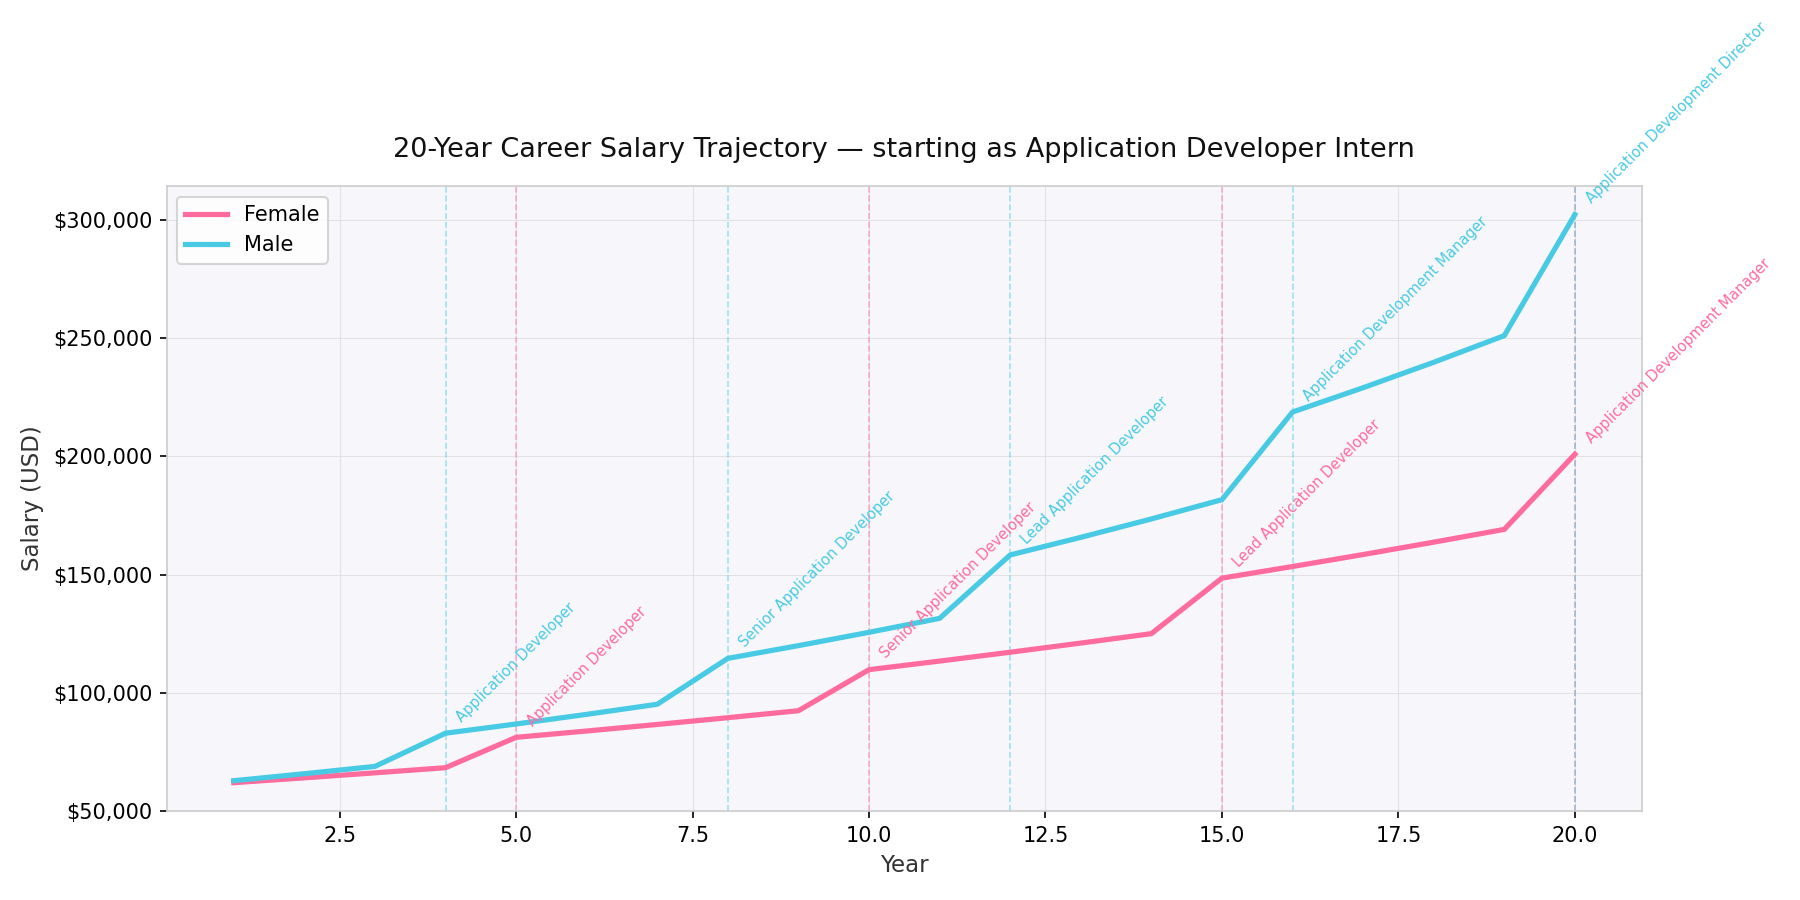
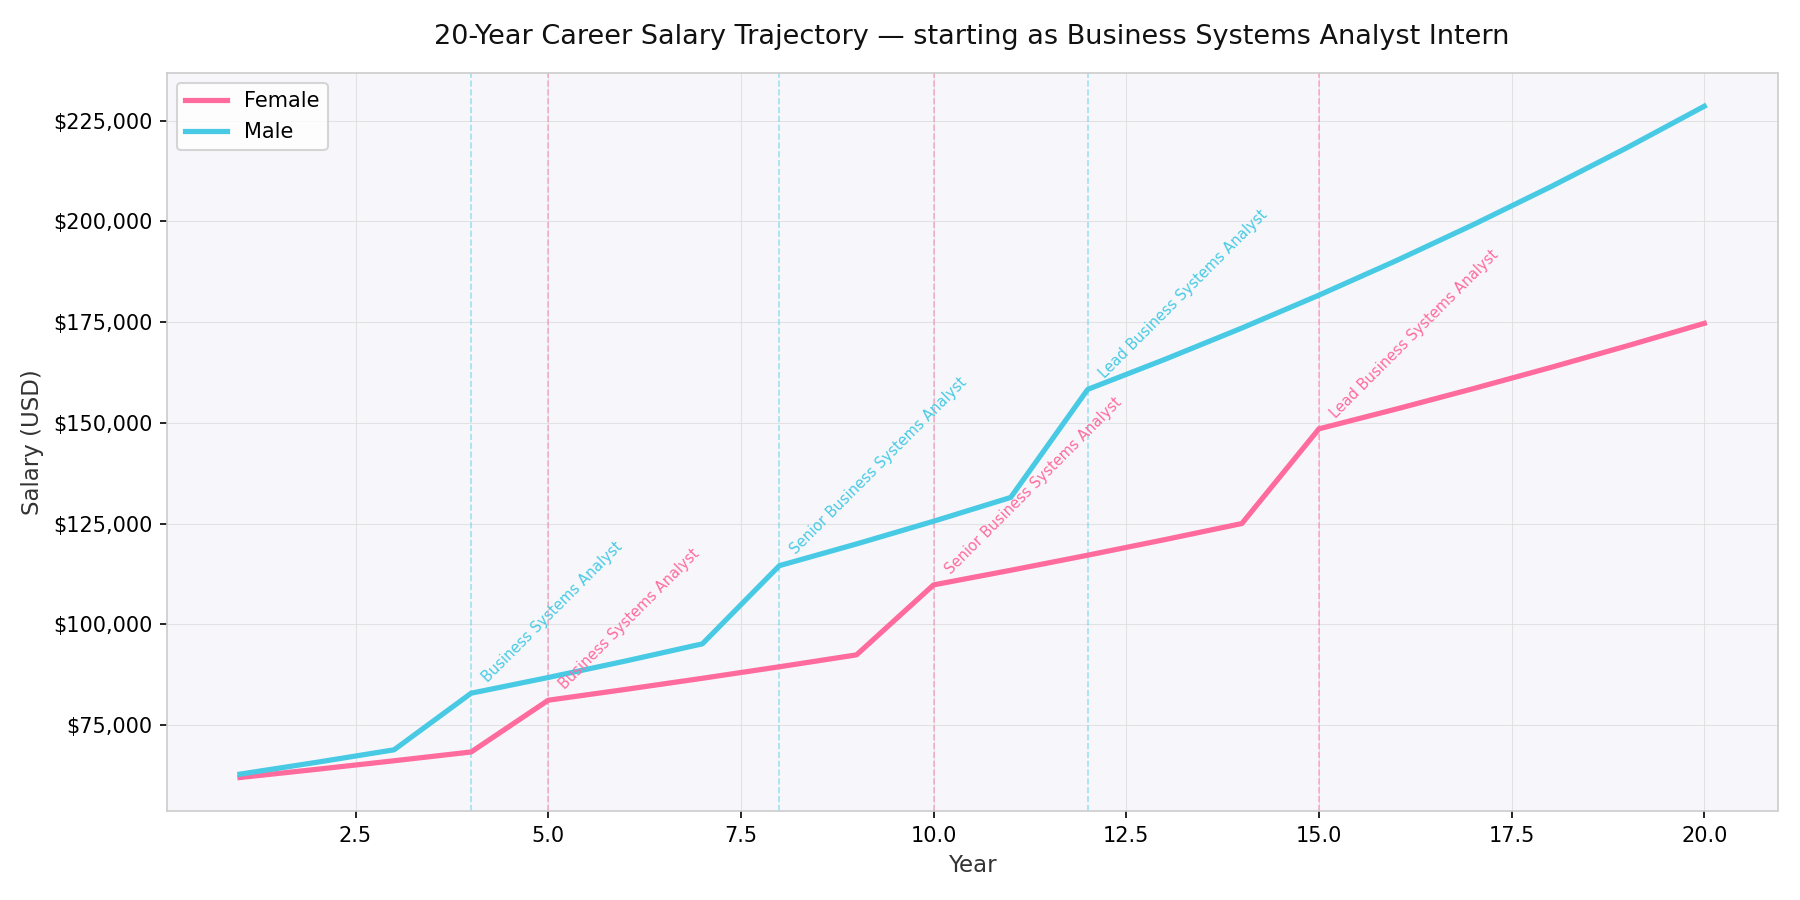
working ver of match alg

diff --git a/src/App.jsx b/src/App.jsx
@@ -60,7 +60,7 @@ const HARDCODED_JOBS = [
     companyType: "Startup",
     location: "San Francisco, CA",
     workType: "Remote",
-    distance: "2.8 mi away",
+    distance: null,
     match: 88,
     // badge: "Salary transparent",
     badgeColor: "#d4b8e0",
@@ -77,7 +77,7 @@ const HARDCODED_JOBS = [
     companyType: "Non-profit",
     location: "San Francisco, CA",
     workType: "Hybrid",
-    distance: "3.5 mi away",
+    distance: null,
     match: 82,
     // badge: "✓ Pay certified",
     badgeColor: "#fce4ea",
@@ -94,7 +94,7 @@ const HARDCODED_JOBS = [
     companyType: "Tech",
     location: "New York, NY",
     workType: "Hybrid",
-    distance: "1.2 mi away",
+    distance: null,
     match: 79,
     // badge: "Salary transparent",
     badgeColor: "#d4b8e0",
@@ -128,7 +128,7 @@ const HARDCODED_JOBS = [
     companyType: "Consumer",
     location: "New York, NY",
     workType: "On-site",
-    distance: "4.1 mi away",
+    distance: null,
     match: 74,
     badge: "Women-led",
     badgeColor: "#d4f0e8",
@@ -162,7 +162,7 @@ const HARDCODED_JOBS = [
     companyType: "Finance",
     location: "New York, NY",
     workType: "On-site",
-    distance: "0.8 mi away",
+    distance: null,
     match: 68,
     badge: "Pay gap audit",
     badgeColor: "#fce4ea",
@@ -179,7 +179,7 @@ const HARDCODED_JOBS = [
     companyType: "Fintech",
     location: "San Francisco, CA",
     workType: "Hybrid",
-    distance: "2.0 mi away",
+    distance: null,
     match: 65,
     // badge: "✓ Pay certified",
     badgeColor: "#fce4ea",

diff --git a/ml/score_job.py b/ml/score_job.py
@@ -10,6 +10,10 @@ Weights:
   distance     0.23  — closer zip code scores higher (neutral 0.5 when zip missing)
   recency      0.05  — more recently posted scores higher (neutral 0.5 when missing)
 
+Cross-domain penalty: if the user's field and the job's field are different domains
+(e.g. engineer vs. marketing director), the raw score is multiplied by 0.12 so
+wrong-field jobs are buried at the bottom of results.
+
 Usage:
     from score_job import score_job
 
@@ -30,11 +34,71 @@ _W_EQUITY   = 0.34
 _W_DISTANCE = 0.23
 _W_RECENCY  = 0.05
 
+# Cross-domain multiplier applied when user field != job field.
+_CROSS_DOMAIN_PENALTY = 0.12
+
+# Ordered list of (domain_name, pattern). First match wins.
+_DOMAINS: list[tuple[str, re.Pattern]] = [
+    ("tech",       re.compile(
+        r'\b(engineer|engineering|developer|software|data|machine learning|ml|ai|'
+        r'devops|sre|platform|backend|frontend|fullstack|full.?stack|infrastructure|'
+        r'security|cloud|architect|programmer|sde|swe|qa|tester|analytics|'
+        r'data scientist|research scientist|computer|cyber|network|systems)\b', re.I)),
+    ("product",    re.compile(
+        r'\b(product manager|product owner|program manager|project manager|'
+        r'scrum master|agile|technical program)\b', re.I)),
+    ("design",     re.compile(
+        r'\b(design|designer|ux|ui|user experience|user interface|visual|'
+        r'graphic|creative director|art director|motion)\b', re.I)),
+    ("marketing",  re.compile(
+        r'\b(marketing|brand|content|seo|sem|growth hacker|campaign|'
+        r'social media|communications|copywriter|media buyer|demand gen)\b', re.I)),
+    ("sales",      re.compile(
+        r'\b(sales|account executive|account manager|business development|'
+        r'revenue|customer success|solutions engineer|pre.?sales|inside sales)\b', re.I)),
+    ("finance",    re.compile(
+        r'\b(finance|financial|accounting|accountant|investment|banking|'
+        r'audit|treasury|controller|cfo|actuar|equity|portfolio|trader|quant)\b', re.I)),
+    ("hr",         re.compile(
+        r'\b(human resources|hr |recruiter|recruiting|talent acquisition|'
+        r'people ops|diversity|dei|workforce|compensation|benefits)\b', re.I)),
+    ("legal",      re.compile(
+        r'\b(legal|lawyer|attorney|counsel|paralegal|compliance|regulatory|'
+        r'policy|contracts|litigation)\b', re.I)),
+    ("ops",        re.compile(
+        r'\b(operations|logistics|supply chain|procurement|facilities|'
+        r'office manager|coordinator|administrator|chief of staff)\b', re.I)),
+    ("healthcare", re.compile(
+        r'\b(nurse|physician|doctor|clinical|medical|healthcare|pharmacy|'
+        r'therapist|dentist|surgeon|radiolog|patholog)\b', re.I)),
+    ("education",  re.compile(
+        r'\b(teacher|professor|instructor|curriculum|academic|tutoring|'
+        r'e.?learning|training|educator|teaching)\b', re.I)),
+]
+
+
+def _get_domain(text: str) -> str | None:
+    for name, pat in _DOMAINS:
+        if pat.search(text):
+            return name
+    return None
+
+
+def _domain_multiplier(user_role: str, job_title: str) -> float:
+    """Return 1.0 if domains match or are unknown; _CROSS_DOMAIN_PENALTY otherwise."""
+    user_domain = _get_domain(user_role)
+    job_domain  = _get_domain(job_title)
+    if user_domain and job_domain and user_domain != job_domain:
+        return _CROSS_DOMAIN_PENALTY
+    return 1.0
+
 
 def _title_score(user_role: str, job_title: str) -> float:
-    """Jaccard similarity on lowercased word tokens."""
+    """Jaccard similarity on lowercased word tokens, excluding common stop words."""
+    _STOP = {"and", "or", "of", "the", "a", "an", "in", "at", "for", "to", "with"}
+
     def tokens(s: str) -> set:
-        return set(re.findall(r"\w+", s.lower()))
+        return set(re.findall(r"\w+", s.lower())) - _STOP
 
     a, b = tokens(user_role), tokens(job_title)
     if not a or not b:
@@ -108,9 +172,14 @@ def score_job(job_info: dict[str, Any], user_info: dict[str, Any]) -> float:
     job_info  — expects: title, womenAvg, menAvg, zipcode, posted
     user_info — expects: current_role, zipcode
     """
-    title    = _title_score(user_info.get("current_role", ""), job_info.get("title", ""))
+    user_role = user_info.get("current_role", "")
+    job_title = job_info.get("title", "")
+
+    title    = _title_score(user_role, job_title)
     equity   = _equity_score(job_info.get("womenAvg"), job_info.get("menAvg"))
     dist     = _distance_score(user_info.get("zipcode"), job_info.get("zipcode"))
     recency  = _recency_score(job_info.get("posted"))
+    penalty  = _domain_multiplier(user_role, job_title)
 
-    return round(_W_TITLE * title + _W_EQUITY * equity + _W_DISTANCE * dist + _W_RECENCY * recency, 4)
+    raw = _W_TITLE * title + _W_EQUITY * equity + _W_DISTANCE * dist + _W_RECENCY * recency
+    return round(penalty * raw, 4)

diff --git a/backend/main.py b/backend/main.py
@@ -2,6 +2,8 @@ from fastapi import FastAPI, Query
 from fastapi.middleware.cors import CORSMiddleware
 from dotenv import load_dotenv
 from pathlib import Path
+import math
+import re
 
 load_dotenv(Path(__file__).parent.parent / ".env")
 
@@ -9,6 +11,15 @@ from .jobs import get_listings
 from .gap import compute_gap
 from .location import resolve_location
 from . import cache
+
+
+def _haversine_mi(lat1, lon1, lat2, lon2) -> float:
+    R = 3958.8  # Earth radius in miles
+    phi1, phi2 = math.radians(lat1), math.radians(lat2)
+    dphi = math.radians(lat2 - lat1)
+    dlam = math.radians(lon2 - lon1)
+    a = math.sin(dphi / 2) ** 2 + math.cos(phi1) * math.cos(phi2) * math.sin(dlam / 2) ** 2
+    return R * 2 * math.atan2(math.sqrt(a), math.sqrt(1 - a))
 
 app = FastAPI(title="HerPath Jobs API")
 
@@ -39,17 +50,26 @@ async def jobs(
 
     if loc:
         city_lower  = city.lower()
-        state_lower = (state or "").lower()
+        state_upper = (state or "").upper()
         def location_matches(loc_str):
             if not loc_str:
                 return False
             s = loc_str.lower()
-            return city_lower in s or (state_lower and state_lower in s)
+            # city substring match (e.g. "san francisco" in "san francisco, ca")
+            if city_lower in s:
+                return True
+            # state abbreviation: only match as whole word/token (e.g. ", CA" not "catering")
+            if state_upper and re.search(r'(?<![a-z])' + re.escape(state_upper.lower()) + r'(?![a-z])', s):
+                return True
+            return False
         listings = [j for j in listings if location_matches(j.get("location"))]
 
     listings.sort(key=lambda j: j.get("days_old", 9999))
 
     gap_ratio = (gap["gap_ratio"] / 100) if gap else 0.82
+
+    user_lat = loc["lat"] if loc else None
+    user_lng = loc["lng"] if loc else None
 
     result = []
     for i, j in enumerate(listings):
@@ -65,6 +85,14 @@ async def jobs(
         else:
             men_avg = women_avg = women_pct = None
 
+        job_lat = j.get("lat")
+        job_lng = j.get("lng")
+        if user_lat and user_lng and job_lat and job_lng:
+            dist_mi = _haversine_mi(user_lat, user_lng, job_lat, job_lng)
+            distance_str = f"{dist_mi:.1f} mi away"
+        else:
+            distance_str = None
+
         result.append({
             "id":          i + 1,
             "title":       j["title"],
@@ -72,14 +100,14 @@ async def jobs(
             "companyType": j.get("category") or "Company",
             "location":    j["location"] or city,
             "workType":    j["work_type"] or "On-site",
-            "distance":    None,
+            "distance":    distance_str,
             "match":       0,
             "posted":      j["posted_at"] or "—",
             "womenAvg":    women_avg,
             "menAvg":      men_avg,
             "womenPct":    women_pct,
             "url":         j.get("url"),
-            "zipcode":     zipcode or None,
+            "zipcode":     None,
         })
 
     cache.set(cache_key, result)

diff --git a/backend/jobs.py b/backend/jobs.py
@@ -155,6 +155,8 @@ async def _fetch_jsearch(role: str, location: str) -> list[dict]:
             title     = j.get("job_title") or ""
 
             posted_label, days_old = _posted_info(j["job_posted_at_datetime_utc"]) if j.get("job_posted_at_datetime_utc") else (None, 9999)
+            lat = j.get("job_latitude")
+            lng = j.get("job_longitude")
             out.append({
                 "source":        "jsearch",
                 "title":         title,
@@ -170,6 +172,8 @@ async def _fetch_jsearch(role: str, location: str) -> list[dict]:
                 "salary_max":    round(sal_max) if sal_max else None,
                 "salary_mid":    sal_mid,
                 "url":           j.get("job_apply_link"),
+                "lat":           float(lat) if lat is not None else None,
+                "lng":           float(lng) if lng is not None else None,
             })
         return out
 